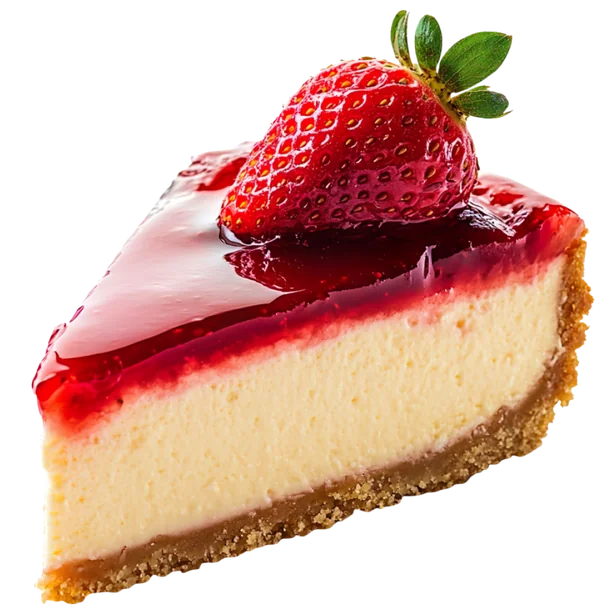
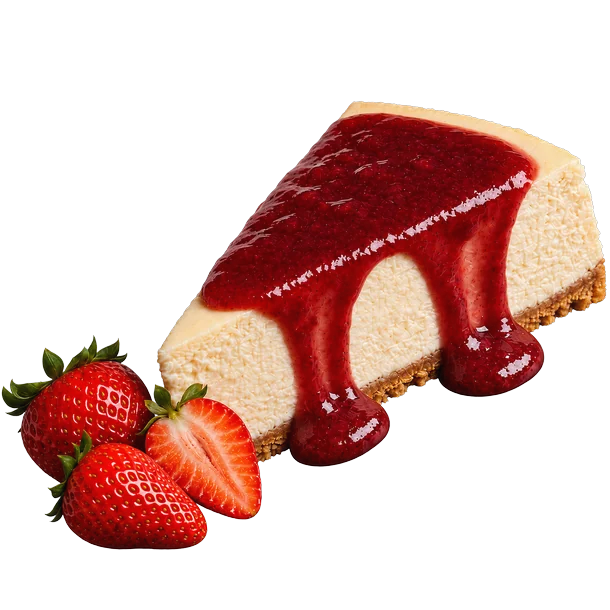
Textos revisados pelo cliente e novas fotos
- Cardápio: inteiros chegam congelados (≈2 h para descongelar), fatias refrigeradas
- Sobre: "fábrica própria, com fornadas todos os dias" (sem "por encomenda")
- Entrega/CTA/hero/meta: "área de cobertura em São Paulo" no lugar de "toda São Paulo"; sem taxa de R$15
- Restaurantes: porcionado, 7 dias de prazo a partir do 2º pedido
- Primeira fatia: sem a linha do R$15 (subtítulo opcional no tema)
- FAQ: prazos de geladeira/congelador e bairros confirmados (entram no JSON-LD)
- Fotos novas: fatia com morangos (primeira fatia), assado e calda (diferenciais)

diff --git a/index.html b/index.html
@@ -4,7 +4,7 @@
   <meta charset="utf-8">
   <meta name="viewport" content="width=device-width, initial-scale=1">
   <title>A Casa do Cheesecake — O autêntico New York Cheesecake em São Paulo</title>
-  <meta name="description" content="New York Cheesecake assado no estilo americano, com cream cheese Philadelphia, entregue gelado em toda São Paulo desde 2004.">
+  <meta name="description" content="New York Cheesecake assado no estilo americano, com cream cheese Philadelphia, com entrega em São Paulo desde 2004.">
   <script>document.documentElement.classList.add('js-motion','motion-pending');window.__cdcMotionSafety=setTimeout(function(){document.documentElement.classList.remove('js-motion','motion-pending')},4000);</script>
   <link rel="icon" href="assets/images/logo-photo.png">
   <link rel="preload" href="assets/fonts/anton-latin.woff2" as="font" type="font/woff2" crossorigin>
@@ -113,7 +113,7 @@
           <ul class="hero__info" role="list" data-figma-node="7057:126">
             <li class="hero__info-item" data-figma-node="7057:127">
               <span class="hero__info-badge" data-figma-node="7057:128"><span class="hero__info-icon" data-figma-node="7057:129"><img src="assets/images/01-hero-icon-delivery.svg" width="24" height="24" alt=""></span></span>
-              <span class="hero__info-text" data-figma-node="7057:136">ENTREGA EM TODA SÃO PAULO</span>
+              <span class="hero__info-text" data-figma-node="7057:136">ENTREGA EM SÃO PAULO</span>
             </li>
             <li class="hero__info-item" data-figma-node="7057:137">
               <span class="hero__info-badge" data-figma-node="7057:138"><span class="hero__info-icon" data-figma-node="7057:139"><img src="assets/images/01-hero-icon-slices.svg" width="24" height="18" alt=""></span></span>
@@ -145,12 +145,11 @@
           <div class="primeira-fatia__media">
             <div class="primeira-fatia__images" data-figma-node="7057:172">
               <img class="primeira-fatia__img primeira-fatia__img--foreground" data-figma-node="7057:173" src="assets/images/02-primeira-fatia-foreground-image.webp" width="206" height="191" decoding="async" alt="Fatia de cheesecake tradicional, sem cobertura">
-              <img class="primeira-fatia__img primeira-fatia__img--background" data-figma-node="7057:174" src="assets/images/02-primeira-fatia-background-image.webp" width="305" height="305" decoding="async" alt="Fatia de cheesecake com calda de frutas vermelhas e um morango por cima">
+              <img class="primeira-fatia__img primeira-fatia__img--background" data-figma-node="7057:174" src="assets/images/02-primeira-fatia-background-image.webp" width="305" height="305" decoding="async" alt="Fatia de cheesecake com calda de frutas vermelhas escorrendo pela lateral, ao lado de morangos">
             </div>
           </div>
 
           <div class="primeira-fatia__content" data-figma-node="7057:167">
-            <p class="primeira-fatia__subtitle" data-figma-node="7057:168">Você paga só os R$15 da entrega.</p>
             <p class="primeira-fatia__text" data-figma-node="7057:169">1 fatia por pessoa&nbsp;· de segunda a sexta, das 10h às 17h&nbsp;· enquanto durar o estoque do dia&nbsp;· dentro da área de entrega em São Paulo.</p>
             <a class="btn btn--primary" href="https://wa.me/5511956022366?text=Ol%C3%A1!+Quero+provar+minha+fatia+por+conta+da+casa." target="_blank" rel="noopener" data-figma-node="7073:338">Quero minha fatia</a>
           </div>
@@ -162,7 +161,7 @@
       <div class="container cardapio__inner">
         <header class="cardapio__head" data-figma-node="7057:176">
           <h2 class="cardapio__title" id="cardapio-titulo" data-figma-node="7057:177">Nossos cheesecakes</h2>
-          <p class="cardapio__lead" data-figma-node="7057:178">Todos assados na nossa cozinha em São Paulo e entregues gelados, prontos para servir. Escolha o tamanho pela quantidade de pessoas.</p>
+          <p class="cardapio__lead" data-figma-node="7057:178">Todos assados na nossa cozinha em São Paulo. Os cheesecakes inteiros chegam congelados, para não rachar no trajeto, e precisam de cerca de 2 horas em temperatura ambiente para descongelar. As fatias chegam refrigeradas, prontas para servir. Escolha o tamanho pela quantidade de pessoas.</p>
         </header>
 
         <div class="cardapio__body" data-figma-node="7057:179" data-cardapio-carousel>
@@ -446,7 +445,7 @@
               <p class="diferenciais__card-text" data-figma-node="7057:344">O ponto depende de uma combinação exata de tempo e temperatura. Erra em um dos dois e a torta racha, seca ou não firma.</p>
             </div>
             <figure class="diferenciais__media" data-figma-node="7057:1438">
-              <img class="diferenciais__img" src="assets/images/05-diferenciais-assado.webp" alt="Fatia de cheesecake assado coberta de framboesas e mirtilos" width="779" height="974" loading="lazy" decoding="async">
+              <img class="diferenciais__img" src="assets/images/05-diferenciais-assado.webp" alt="Fatia de cheesecake assado com calda de morango, ao lado da caixa da Casa do Cheesecake" width="780" height="1042" loading="lazy" decoding="async">
             </figure>
           </li>
 
@@ -456,7 +455,7 @@
               <p class="diferenciais__card-text" data-figma-node="7057:348">A cobertura é generosa por decisão, não por acidente. Fatia com calda escassa não é a sobremesa que a gente aprendeu a fazer.</p>
             </div>
             <figure class="diferenciais__media" data-figma-node="7057:1440">
-              <img class="diferenciais__img" src="assets/images/05-diferenciais-calda.webp" alt="Cheesecake inteiro com calda de frutas vermelhas cobrindo a superfície até a borda" width="600" height="673" loading="lazy" decoding="async">
+              <img class="diferenciais__img" src="assets/images/05-diferenciais-calda.webp" alt="Cheesecake inteiro com calda de frutas vermelhas cobrindo a superfície até a borda, com uma fatia cortada" width="780" height="1044" loading="lazy" decoding="async">
             </figure>
           </li>
         </ul>
@@ -476,8 +475,8 @@
       <div class="sobre__text" data-figma-node="7057:353">
         <h2 class="sobre__title" id="sobre-titulo" data-figma-node="7057:354">Uma cozinha, não uma embalagem</h2>
         <div class="sobre__body" data-figma-node="7057:355">
-          <p>Somos uma cozinha em São Paulo, com uma equipe que assa, resfria, cobre e embala cada torta que sai daqui — e que faz isso desde 2004, com a mesma receita e o mesmo padrão.</p>
-          <p>Cada cheesecake é assado por encomenda e sai da cozinha direto para a sua casa. Não trabalhamos com loja física nem com revenda em prateleira.</p>
+          <p>Somos uma fábrica própria em São Paulo, com fornadas todos os dias. Desde 2004, cada torta segue a mesma receita e o mesmo padrão.</p>
+          <p>Cada cheesecake sai direto da fábrica para a sua casa, sem loja física nem revenda em prateleira.</p>
         </div>
       </div>
 
@@ -642,7 +641,7 @@
 <section class="entrega" id="entrega" data-figma-node="7057:490" aria-labelledby="entrega-titulo">
   <div class="entrega__inner container">
     <div class="entrega__header" data-figma-node="7057:491">
-      <h2 class="entrega__title u-display" id="entrega-titulo" data-figma-node="7057:492">Entrega em toda a cidade de São Paulo</h2>
+      <h2 class="entrega__title u-display" id="entrega-titulo" data-figma-node="7057:492">Entrega em São Paulo</h2>
     </div>
     <div class="entrega__body" data-figma-node="7057:1348">
       <ul class="entrega__list" role="list" data-figma-node="7057:493">
@@ -653,8 +652,8 @@
             </span>
           </span>
           <div class="entrega__text" data-figma-node="7057:1315">
-            <h3 class="entrega__item-title" data-figma-node="7057:495">Toda São Paulo</h3>
-            <p class="entrega__item-text" data-figma-node="7057:496">Qualquer região dentro da nossa área de cobertura. Taxa a partir de R$15.</p>
+            <h3 class="entrega__item-title" data-figma-node="7057:495">Área de cobertura</h3>
+            <p class="entrega__item-text" data-figma-node="7057:496">Qualquer região dentro da nossa área de cobertura.</p>
           </div>
         </li>
         <li class="entrega__item" data-figma-node="7057:497">
@@ -675,8 +674,8 @@
             </span>
           </span>
           <div class="entrega__text" data-figma-node="7057:1317">
-            <h3 class="entrega__item-title" data-figma-node="7057:501">Chega gelado e pronto</h3>
-            <p class="entrega__item-text" data-figma-node="7057:502">Embalagem própria e temperatura de servir. Não precisa fazer nada além de cortar.</p>
+            <h3 class="entrega__item-title" data-figma-node="7057:501">Congelado ou refrigerado</h3>
+            <p class="entrega__item-text" data-figma-node="7057:502">Embalagem própria. O inteiro descongela em cerca de 2 horas; a fatia já chega pronta para servir.</p>
           </div>
         </li>
         <li class="entrega__item" data-figma-node="7057:503">
@@ -705,7 +704,7 @@
         <img class="restaurantes__selo" data-figma-node="7099:240" src="assets/images/09-restaurantes-selo.svg" width="53" height="63" alt="" loading="lazy">
       </div>
       <div class="restaurantes__content" data-figma-node="7057:511">
-        <p class="restaurantes__text" data-figma-node="7057:512">Cheesecakes inteiros prontos para porcionar, entrega semanal programada e <strong>pedido mínimo de R$500.</strong></p>
+        <p class="restaurantes__text" data-figma-node="7057:512">Cheesecakes inteiros já porcionados, entrega semanal programada, 7 dias de prazo para pagamento a partir do 2º pedido e <strong>pedido mínimo de R$500.</strong></p>
         <a class="btn btn--primary" data-figma-node="7079:401" href="https://acasadocheesecake.com.br/b2b/">Ver condições</a>
       </div>
     </div>
@@ -785,7 +784,7 @@
           </h3>
           <div class="faq__answer" id="faq-resposta-4" role="region" aria-labelledby="faq-pergunta-4">
             <div class="faq__answer-inner">
-              <p class="faq__answer-text">Na geladeira, bem fechado, o cheesecake dura [X dias]. Ele também pode ser congelado por até [X dias]: leve ao congelador inteiro ou em fatias, e transfira para a geladeira algumas horas antes de servir — nunca descongele em temperatura ambiente nem no micro-ondas, porque a textura se perde. [confirmar os dois prazos e a orientação de descongelamento]</p>
+              <p class="faq__answer-text">Na geladeira, bem fechado, o cheesecake dura até 7 dias. No congelador, inteiro ou em fatias, dura até 180 dias. Para descongelar, deixe cerca de 2 horas em temperatura ambiente antes de servir. Não use o micro-ondas, porque a textura se perde.</p>
             </div>
           </div>
         </div>
@@ -821,7 +820,7 @@
           </h3>
           <div class="faq__answer" id="faq-resposta-6" role="region" aria-labelledby="faq-pergunta-6">
             <div class="faq__answer-inner">
-              <p class="faq__answer-text">Atendemos toda a cidade de São Paulo, dentro da nossa área de cobertura, com taxa a partir de R$15. O cardápio confirma a disponibilidade pelo seu endereço antes de você fechar o pedido, então não tem risco de comprar e descobrir depois que não chega. Também estamos no iFood em Pinheiros, Vila Leopoldina, Bela Vista e Brooklin. [confirmar: se a taxa varia por região]</p>
+              <p class="faq__answer-text">Entregamos em São Paulo, dentro da nossa área de cobertura. O cardápio confirma a disponibilidade pelo seu endereço antes de você fechar o pedido, então não tem risco de comprar e descobrir depois que não chega. Também estamos no iFood em Pinheiros, Vila Leopoldina, Bela Vista e Brooklin.</p>
             </div>
           </div>
         </div>
@@ -872,7 +871,7 @@
        quando a página abre/recarrega nesta altura. Sem JS nada roda e tudo fica aberto. -->
   <script>(function (s) { if (s) s.classList.add('is-enhanced'); })(document.currentScript && document.currentScript.parentNode);</script>
   <!-- JSON-LD: respostas com marcador "[confirmar …]"/"[X dias]" do Figma ficam fora até a copy ser confirmada (igual ao template PHP). -->
-  <script type="application/ld+json">{"@context":"https://schema.org","@type":"FAQPage","mainEntity":[{"@type":"Question","name":"Vocês têm loja física?","acceptedAnswer":{"@type":"Answer","text":"Não. Trabalhamos exclusivamente com delivery em São Paulo, pelo nosso cardápio online e pelo iFood. Toda a produção sai da nossa cozinha direto para a entrega."}},{"@type":"Question","name":"Qual o tamanho certo para o meu número de convidados?","acceptedAnswer":{"@type":"Answer","text":"A fatia de 150 g serve uma pessoa. A torta de 600 g rende até 6 mini fatias, a de 1,2 kg serve até 8 pessoas e a de 1,8 kg, de 10 a 12. Se o cheesecake for a única sobremesa da mesa, vá para o tamanho de cima — porção de cheesecake some rápido. Se houver bolo e outros doces, o tamanho de baixo resolve."}},{"@type":"Question","name":"Quais as formas de pagamento?","acceptedAnswer":{"@type":"Answer","text":"Aceitamos Pix, cartão de crédito e cartão de débito, todos pelo cardápio online, com confirmação automática. O pagamento acontece na hora do pedido, então a entrega chega sem nenhuma etapa a mais."}},{"@type":"Question","name":"Como funciona a fatia por conta da casa?","acceptedAnswer":{"@type":"Answer","text":"É para quem ainda não conhece a marca: você preenche o formulário, escolhe o sabor e a data, e recebe uma fatia pagando só os R$15 da entrega. É 1 fatia por pessoa, de segunda a sexta das 10h às 17h, enquanto durar o estoque do dia, dentro da nossa área de entrega em São Paulo."}},{"@type":"Question","name":"O cheesecake de vocês é assado?","acceptedAnswer":{"@type":"Answer","text":"Sim. É a receita original americana, assada no forno — não é uma sobremesa fria montada com gelatina ou creme batido. É isso que dá a textura densa, o sabor lácteo e a fatia que se sustenta em pé no prato. A quantidade de cream cheese Philadelphia é a da receita original, sem redução."}}]}</script>
+  <script type="application/ld+json">{"@context":"https://schema.org","@type":"FAQPage","mainEntity":[{"@type":"Question","name":"Vocês têm loja física?","acceptedAnswer":{"@type":"Answer","text":"Não. Trabalhamos exclusivamente com delivery em São Paulo, pelo nosso cardápio online e pelo iFood. Toda a produção sai da nossa cozinha direto para a entrega."}},{"@type":"Question","name":"Qual o tamanho certo para o meu número de convidados?","acceptedAnswer":{"@type":"Answer","text":"A fatia de 150 g serve uma pessoa. A torta de 600 g rende até 6 mini fatias, a de 1,2 kg serve até 8 pessoas e a de 1,8 kg, de 10 a 12. Se o cheesecake for a única sobremesa da mesa, vá para o tamanho de cima — porção de cheesecake some rápido. Se houver bolo e outros doces, o tamanho de baixo resolve."}},{"@type":"Question","name":"Quanto tempo dura na geladeira? Pode congelar?","acceptedAnswer":{"@type":"Answer","text":"Na geladeira, bem fechado, o cheesecake dura até 7 dias. No congelador, inteiro ou em fatias, dura até 180 dias. Para descongelar, deixe cerca de 2 horas em temperatura ambiente antes de servir. Não use o micro-ondas, porque a textura se perde."}},{"@type":"Question","name":"Quais as formas de pagamento?","acceptedAnswer":{"@type":"Answer","text":"Aceitamos Pix, cartão de crédito e cartão de débito, todos pelo cardápio online, com confirmação automática. O pagamento acontece na hora do pedido, então a entrega chega sem nenhuma etapa a mais."}},{"@type":"Question","name":"A entrega chega em qualquer bairro de São Paulo?","acceptedAnswer":{"@type":"Answer","text":"Entregamos em São Paulo, dentro da nossa área de cobertura. O cardápio confirma a disponibilidade pelo seu endereço antes de você fechar o pedido, então não tem risco de comprar e descobrir depois que não chega. Também estamos no iFood em Pinheiros, Vila Leopoldina, Bela Vista e Brooklin."}},{"@type":"Question","name":"Como funciona a fatia por conta da casa?","acceptedAnswer":{"@type":"Answer","text":"É para quem ainda não conhece a marca: você preenche o formulário, escolhe o sabor e a data, e recebe uma fatia pagando só os R$15 da entrega. É 1 fatia por pessoa, de segunda a sexta das 10h às 17h, enquanto durar o estoque do dia, dentro da nossa área de entrega em São Paulo."}},{"@type":"Question","name":"O cheesecake de vocês é assado?","acceptedAnswer":{"@type":"Answer","text":"Sim. É a receita original americana, assada no forno — não é uma sobremesa fria montada com gelatina ou creme batido. É isso que dá a textura densa, o sabor lácteo e a fatia que se sustenta em pé no prato. A quantidade de cream cheese Philadelphia é a da receita original, sem redução."}}]}</script>
 </section>
 
 <section class="cta-final" id="pedir" data-figma-node="7057:955" aria-labelledby="cta-final-titulo">
@@ -882,7 +881,7 @@
         <img src="assets/images/11-cta-final-selo.svg" width="142" height="142" loading="lazy" decoding="async" alt="Yes, we have cheesecake. Desde 2004.">
       </div>
       <h2 class="cta-final__title" id="cta-final-titulo" data-figma-node="7057:993">Peça o seu <br>cheesecake hoje</h2>
-      <p class="cta-final__text" data-figma-node="7057:1009">Assado na nossa cozinha, entregue gelado em toda São Paulo.</p>
+      <p class="cta-final__text" data-figma-node="7057:1009">Assado na nossa cozinha, entregue congelado dentro da nossa área de cobertura em São Paulo.</p>
       <img class="cta-final__fatia" data-figma-node="7057:994" src="assets/images/11-cta-final-fatia.webp" width="198" height="184" loading="lazy" decoding="async" alt="Fatia de cheesecake tradicional, sem cobertura">
     </div>
 

diff --git a/src/sections/10-perguntas.html b/src/sections/10-perguntas.html
@@ -71,7 +71,7 @@
           </h3>
           <div class="faq__answer" id="faq-resposta-4" role="region" aria-labelledby="faq-pergunta-4">
             <div class="faq__answer-inner">
-              <p class="faq__answer-text">Na geladeira, bem fechado, o cheesecake dura [X dias]. Ele também pode ser congelado por até [X dias]: leve ao congelador inteiro ou em fatias, e transfira para a geladeira algumas horas antes de servir — nunca descongele em temperatura ambiente nem no micro-ondas, porque a textura se perde. [confirmar os dois prazos e a orientação de descongelamento]</p>
+              <p class="faq__answer-text">Na geladeira, bem fechado, o cheesecake dura até 7 dias. No congelador, inteiro ou em fatias, dura até 180 dias. Para descongelar, deixe cerca de 2 horas em temperatura ambiente antes de servir. Não use o micro-ondas, porque a textura se perde.</p>
             </div>
           </div>
         </div>
@@ -107,7 +107,7 @@
           </h3>
           <div class="faq__answer" id="faq-resposta-6" role="region" aria-labelledby="faq-pergunta-6">
             <div class="faq__answer-inner">
-              <p class="faq__answer-text">Atendemos toda a cidade de São Paulo, dentro da nossa área de cobertura, com taxa a partir de R$15. O cardápio confirma a disponibilidade pelo seu endereço antes de você fechar o pedido, então não tem risco de comprar e descobrir depois que não chega. Também estamos no iFood em Pinheiros, Vila Leopoldina, Bela Vista e Brooklin. [confirmar: se a taxa varia por região]</p>
+              <p class="faq__answer-text">Entregamos em São Paulo, dentro da nossa área de cobertura. O cardápio confirma a disponibilidade pelo seu endereço antes de você fechar o pedido, então não tem risco de comprar e descobrir depois que não chega. Também estamos no iFood em Pinheiros, Vila Leopoldina, Bela Vista e Brooklin.</p>
             </div>
           </div>
         </div>
@@ -158,5 +158,5 @@
        quando a página abre/recarrega nesta altura. Sem JS nada roda e tudo fica aberto. -->
   <script>(function (s) { if (s) s.classList.add('is-enhanced'); })(document.currentScript && document.currentScript.parentNode);</script>
   <!-- JSON-LD: respostas com marcador "[confirmar …]"/"[X dias]" do Figma ficam fora até a copy ser confirmada (igual ao template PHP). -->
-  <script type="application/ld+json">{"@context":"https://schema.org","@type":"FAQPage","mainEntity":[{"@type":"Question","name":"Vocês têm loja física?","acceptedAnswer":{"@type":"Answer","text":"Não. Trabalhamos exclusivamente com delivery em São Paulo, pelo nosso cardápio online e pelo iFood. Toda a produção sai da nossa cozinha direto para a entrega."}},{"@type":"Question","name":"Qual o tamanho certo para o meu número de convidados?","acceptedAnswer":{"@type":"Answer","text":"A fatia de 150 g serve uma pessoa. A torta de 600 g rende até 6 mini fatias, a de 1,2 kg serve até 8 pessoas e a de 1,8 kg, de 10 a 12. Se o cheesecake for a única sobremesa da mesa, vá para o tamanho de cima — porção de cheesecake some rápido. Se houver bolo e outros doces, o tamanho de baixo resolve."}},{"@type":"Question","name":"Quais as formas de pagamento?","acceptedAnswer":{"@type":"Answer","text":"Aceitamos Pix, cartão de crédito e cartão de débito, todos pelo cardápio online, com confirmação automática. O pagamento acontece na hora do pedido, então a entrega chega sem nenhuma etapa a mais."}},{"@type":"Question","name":"Como funciona a fatia por conta da casa?","acceptedAnswer":{"@type":"Answer","text":"É para quem ainda não conhece a marca: você preenche o formulário, escolhe o sabor e a data, e recebe uma fatia pagando só os R$15 da entrega. É 1 fatia por pessoa, de segunda a sexta das 10h às 17h, enquanto durar o estoque do dia, dentro da nossa área de entrega em São Paulo."}},{"@type":"Question","name":"O cheesecake de vocês é assado?","acceptedAnswer":{"@type":"Answer","text":"Sim. É a receita original americana, assada no forno — não é uma sobremesa fria montada com gelatina ou creme batido. É isso que dá a textura densa, o sabor lácteo e a fatia que se sustenta em pé no prato. A quantidade de cream cheese Philadelphia é a da receita original, sem redução."}}]}</script>
+  <script type="application/ld+json">{"@context":"https://schema.org","@type":"FAQPage","mainEntity":[{"@type":"Question","name":"Vocês têm loja física?","acceptedAnswer":{"@type":"Answer","text":"Não. Trabalhamos exclusivamente com delivery em São Paulo, pelo nosso cardápio online e pelo iFood. Toda a produção sai da nossa cozinha direto para a entrega."}},{"@type":"Question","name":"Qual o tamanho certo para o meu número de convidados?","acceptedAnswer":{"@type":"Answer","text":"A fatia de 150 g serve uma pessoa. A torta de 600 g rende até 6 mini fatias, a de 1,2 kg serve até 8 pessoas e a de 1,8 kg, de 10 a 12. Se o cheesecake for a única sobremesa da mesa, vá para o tamanho de cima — porção de cheesecake some rápido. Se houver bolo e outros doces, o tamanho de baixo resolve."}},{"@type":"Question","name":"Quanto tempo dura na geladeira? Pode congelar?","acceptedAnswer":{"@type":"Answer","text":"Na geladeira, bem fechado, o cheesecake dura até 7 dias. No congelador, inteiro ou em fatias, dura até 180 dias. Para descongelar, deixe cerca de 2 horas em temperatura ambiente antes de servir. Não use o micro-ondas, porque a textura se perde."}},{"@type":"Question","name":"Quais as formas de pagamento?","acceptedAnswer":{"@type":"Answer","text":"Aceitamos Pix, cartão de crédito e cartão de débito, todos pelo cardápio online, com confirmação automática. O pagamento acontece na hora do pedido, então a entrega chega sem nenhuma etapa a mais."}},{"@type":"Question","name":"A entrega chega em qualquer bairro de São Paulo?","acceptedAnswer":{"@type":"Answer","text":"Entregamos em São Paulo, dentro da nossa área de cobertura. O cardápio confirma a disponibilidade pelo seu endereço antes de você fechar o pedido, então não tem risco de comprar e descobrir depois que não chega. Também estamos no iFood em Pinheiros, Vila Leopoldina, Bela Vista e Brooklin."}},{"@type":"Question","name":"Como funciona a fatia por conta da casa?","acceptedAnswer":{"@type":"Answer","text":"É para quem ainda não conhece a marca: você preenche o formulário, escolhe o sabor e a data, e recebe uma fatia pagando só os R$15 da entrega. É 1 fatia por pessoa, de segunda a sexta das 10h às 17h, enquanto durar o estoque do dia, dentro da nossa área de entrega em São Paulo."}},{"@type":"Question","name":"O cheesecake de vocês é assado?","acceptedAnswer":{"@type":"Answer","text":"Sim. É a receita original americana, assada no forno — não é uma sobremesa fria montada com gelatina ou creme batido. É isso que dá a textura densa, o sabor lácteo e a fatia que se sustenta em pé no prato. A quantidade de cream cheese Philadelphia é a da receita original, sem redução."}}]}</script>
 </section>

diff --git a/src/sections/08-entrega.html b/src/sections/08-entrega.html
@@ -1,7 +1,7 @@
 <section class="entrega" id="entrega" data-figma-node="7057:490" aria-labelledby="entrega-titulo">
   <div class="entrega__inner container">
     <div class="entrega__header" data-figma-node="7057:491">
-      <h2 class="entrega__title u-display" id="entrega-titulo" data-figma-node="7057:492">Entrega em toda a cidade de São Paulo</h2>
+      <h2 class="entrega__title u-display" id="entrega-titulo" data-figma-node="7057:492">Entrega em São Paulo</h2>
     </div>
     <div class="entrega__body" data-figma-node="7057:1348">
       <ul class="entrega__list" role="list" data-figma-node="7057:493">
@@ -12,8 +12,8 @@
             </span>
           </span>
           <div class="entrega__text" data-figma-node="7057:1315">
-            <h3 class="entrega__item-title" data-figma-node="7057:495">Toda São Paulo</h3>
-            <p class="entrega__item-text" data-figma-node="7057:496">Qualquer região dentro da nossa área de cobertura. Taxa a partir de R$15.</p>
+            <h3 class="entrega__item-title" data-figma-node="7057:495">Área de cobertura</h3>
+            <p class="entrega__item-text" data-figma-node="7057:496">Qualquer região dentro da nossa área de cobertura.</p>
           </div>
         </li>
         <li class="entrega__item" data-figma-node="7057:497">
@@ -34,8 +34,8 @@
             </span>
           </span>
           <div class="entrega__text" data-figma-node="7057:1317">
-            <h3 class="entrega__item-title" data-figma-node="7057:501">Chega gelado e pronto</h3>
-            <p class="entrega__item-text" data-figma-node="7057:502">Embalagem própria e temperatura de servir. Não precisa fazer nada além de cortar.</p>
+            <h3 class="entrega__item-title" data-figma-node="7057:501">Congelado ou refrigerado</h3>
+            <p class="entrega__item-text" data-figma-node="7057:502">Embalagem própria. O inteiro descongela em cerca de 2 horas; a fatia já chega pronta para servir.</p>
           </div>
         </li>
         <li class="entrega__item" data-figma-node="7057:503">

diff --git a/src/sections/05-diferenciais.html b/src/sections/05-diferenciais.html
@@ -26,7 +26,7 @@
               <p class="diferenciais__card-text" data-figma-node="7057:344">O ponto depende de uma combinação exata de tempo e temperatura. Erra em um dos dois e a torta racha, seca ou não firma.</p>
             </div>
             <figure class="diferenciais__media" data-figma-node="7057:1438">
-              <img class="diferenciais__img" src="assets/images/05-diferenciais-assado.webp" alt="Fatia de cheesecake assado coberta de framboesas e mirtilos" width="779" height="974" loading="lazy" decoding="async">
+              <img class="diferenciais__img" src="assets/images/05-diferenciais-assado.webp" alt="Fatia de cheesecake assado com calda de morango, ao lado da caixa da Casa do Cheesecake" width="780" height="1042" loading="lazy" decoding="async">
             </figure>
           </li>
 
@@ -36,7 +36,7 @@
               <p class="diferenciais__card-text" data-figma-node="7057:348">A cobertura é generosa por decisão, não por acidente. Fatia com calda escassa não é a sobremesa que a gente aprendeu a fazer.</p>
             </div>
             <figure class="diferenciais__media" data-figma-node="7057:1440">
-              <img class="diferenciais__img" src="assets/images/05-diferenciais-calda.webp" alt="Cheesecake inteiro com calda de frutas vermelhas cobrindo a superfície até a borda" width="600" height="673" loading="lazy" decoding="async">
+              <img class="diferenciais__img" src="assets/images/05-diferenciais-calda.webp" alt="Cheesecake inteiro com calda de frutas vermelhas cobrindo a superfície até a borda, com uma fatia cortada" width="780" height="1044" loading="lazy" decoding="async">
             </figure>
           </li>
         </ul>

diff --git a/src/sections/02-primeira-fatia.html b/src/sections/02-primeira-fatia.html
@@ -7,12 +7,11 @@
           <div class="primeira-fatia__media">
             <div class="primeira-fatia__images" data-figma-node="7057:172">
               <img class="primeira-fatia__img primeira-fatia__img--foreground" data-figma-node="7057:173" src="assets/images/02-primeira-fatia-foreground-image.webp" width="206" height="191" decoding="async" alt="Fatia de cheesecake tradicional, sem cobertura">
-              <img class="primeira-fatia__img primeira-fatia__img--background" data-figma-node="7057:174" src="assets/images/02-primeira-fatia-background-image.webp" width="305" height="305" decoding="async" alt="Fatia de cheesecake com calda de frutas vermelhas e um morango por cima">
+              <img class="primeira-fatia__img primeira-fatia__img--background" data-figma-node="7057:174" src="assets/images/02-primeira-fatia-background-image.webp" width="305" height="305" decoding="async" alt="Fatia de cheesecake com calda de frutas vermelhas escorrendo pela lateral, ao lado de morangos">
             </div>
           </div>
 
           <div class="primeira-fatia__content" data-figma-node="7057:167">
-            <p class="primeira-fatia__subtitle" data-figma-node="7057:168">Você paga só os R$15 da entrega.</p>
             <p class="primeira-fatia__text" data-figma-node="7057:169">1 fatia por pessoa&nbsp;· de segunda a sexta, das 10h às 17h&nbsp;· enquanto durar o estoque do dia&nbsp;· dentro da área de entrega em São Paulo.</p>
             <a class="btn btn--primary" href="https://wa.me/5511956022366?text=Ol%C3%A1!+Quero+provar+minha+fatia+por+conta+da+casa." target="_blank" rel="noopener" data-figma-node="7073:338">Quero minha fatia</a>
           </div>

diff --git a/src/sections/06-sobre.html b/src/sections/06-sobre.html
@@ -11,8 +11,8 @@
       <div class="sobre__text" data-figma-node="7057:353">
         <h2 class="sobre__title" id="sobre-titulo" data-figma-node="7057:354">Uma cozinha, não uma embalagem</h2>
         <div class="sobre__body" data-figma-node="7057:355">
-          <p>Somos uma cozinha em São Paulo, com uma equipe que assa, resfria, cobre e embala cada torta que sai daqui — e que faz isso desde 2004, com a mesma receita e o mesmo padrão.</p>
-          <p>Cada cheesecake é assado por encomenda e sai da cozinha direto para a sua casa. Não trabalhamos com loja física nem com revenda em prateleira.</p>
+          <p>Somos uma fábrica própria em São Paulo, com fornadas todos os dias. Desde 2004, cada torta segue a mesma receita e o mesmo padrão.</p>
+          <p>Cada cheesecake sai direto da fábrica para a sua casa, sem loja física nem revenda em prateleira.</p>
         </div>
       </div>
 

diff --git a/src/sections/03-cardapio.html b/src/sections/03-cardapio.html
@@ -2,7 +2,7 @@
       <div class="container cardapio__inner">
         <header class="cardapio__head" data-figma-node="7057:176">
           <h2 class="cardapio__title" id="cardapio-titulo" data-figma-node="7057:177">Nossos cheesecakes</h2>
-          <p class="cardapio__lead" data-figma-node="7057:178">Todos assados na nossa cozinha em São Paulo e entregues gelados, prontos para servir. Escolha o tamanho pela quantidade de pessoas.</p>
+          <p class="cardapio__lead" data-figma-node="7057:178">Todos assados na nossa cozinha em São Paulo. Os cheesecakes inteiros chegam congelados, para não rachar no trajeto, e precisam de cerca de 2 horas em temperatura ambiente para descongelar. As fatias chegam refrigeradas, prontas para servir. Escolha o tamanho pela quantidade de pessoas.</p>
         </header>
 
         <div class="cardapio__body" data-figma-node="7057:179" data-cardapio-carousel>

diff --git a/src/sections/01-hero.html b/src/sections/01-hero.html
@@ -24,7 +24,7 @@
           <ul class="hero__info" role="list" data-figma-node="7057:126">
             <li class="hero__info-item" data-figma-node="7057:127">
               <span class="hero__info-badge" data-figma-node="7057:128"><span class="hero__info-icon" data-figma-node="7057:129"><img src="assets/images/01-hero-icon-delivery.svg" width="24" height="24" alt=""></span></span>
-              <span class="hero__info-text" data-figma-node="7057:136">ENTREGA EM TODA SÃO PAULO</span>
+              <span class="hero__info-text" data-figma-node="7057:136">ENTREGA EM SÃO PAULO</span>
             </li>
             <li class="hero__info-item" data-figma-node="7057:137">
               <span class="hero__info-badge" data-figma-node="7057:138"><span class="hero__info-icon" data-figma-node="7057:139"><img src="assets/images/01-hero-icon-slices.svg" width="24" height="18" alt=""></span></span>

diff --git a/src/layout.html b/src/layout.html
@@ -4,7 +4,7 @@
   <meta charset="utf-8">
   <meta name="viewport" content="width=device-width, initial-scale=1">
   <title>A Casa do Cheesecake — O autêntico New York Cheesecake em São Paulo</title>
-  <meta name="description" content="New York Cheesecake assado no estilo americano, com cream cheese Philadelphia, entregue gelado em toda São Paulo desde 2004.">
+  <meta name="description" content="New York Cheesecake assado no estilo americano, com cream cheese Philadelphia, com entrega em São Paulo desde 2004.">
   <script>document.documentElement.classList.add('js-motion','motion-pending');window.__cdcMotionSafety=setTimeout(function(){document.documentElement.classList.remove('js-motion','motion-pending')},4000);</script>
   <link rel="icon" href="assets/images/logo-photo.png">
   <link rel="preload" href="assets/fonts/anton-latin.woff2" as="font" type="font/woff2" crossorigin>

diff --git a/src/sections/09-restaurantes.html b/src/sections/09-restaurantes.html
@@ -7,7 +7,7 @@
         <img class="restaurantes__selo" data-figma-node="7099:240" src="assets/images/09-restaurantes-selo.svg" width="53" height="63" alt="" loading="lazy">
       </div>
       <div class="restaurantes__content" data-figma-node="7057:511">
-        <p class="restaurantes__text" data-figma-node="7057:512">Cheesecakes inteiros prontos para porcionar, entrega semanal programada e <strong>pedido mínimo de R$500.</strong></p>
+        <p class="restaurantes__text" data-figma-node="7057:512">Cheesecakes inteiros já porcionados, entrega semanal programada, 7 dias de prazo para pagamento a partir do 2º pedido e <strong>pedido mínimo de R$500.</strong></p>
         <a class="btn btn--primary" data-figma-node="7079:401" href="https://acasadocheesecake.com.br/b2b/">Ver condições</a>
       </div>
     </div>

diff --git a/src/sections/11-cta-final.html b/src/sections/11-cta-final.html
@@ -5,7 +5,7 @@
         <img src="assets/images/11-cta-final-selo.svg" width="142" height="142" loading="lazy" decoding="async" alt="Yes, we have cheesecake. Desde 2004.">
       </div>
       <h2 class="cta-final__title" id="cta-final-titulo" data-figma-node="7057:993">Peça o seu <br>cheesecake hoje</h2>
-      <p class="cta-final__text" data-figma-node="7057:1009">Assado na nossa cozinha, entregue gelado em toda São Paulo.</p>
+      <p class="cta-final__text" data-figma-node="7057:1009">Assado na nossa cozinha, entregue congelado dentro da nossa área de cobertura em São Paulo.</p>
       <img class="cta-final__fatia" data-figma-node="7057:994" src="assets/images/11-cta-final-fatia.webp" width="198" height="184" loading="lazy" decoding="async" alt="Fatia de cheesecake tradicional, sem cobertura">
     </div>
 

diff --git a/theme/casadocheesecake/inc/sections/10-perguntas.php b/theme/casadocheesecake/inc/sections/10-perguntas.php
@@ -35,7 +35,7 @@ function cdc_faq_defaults() {
 		),
 		array(
 			'title'    => 'Quanto tempo dura na geladeira? Pode congelar?',
-			'resposta' => 'Na geladeira, bem fechado, o cheesecake dura [X dias]. Ele também pode ser congelado por até [X dias]: leve ao congelador inteiro ou em fatias, e transfira para a geladeira algumas horas antes de servir — nunca descongele em temperatura ambiente nem no micro-ondas, porque a textura se perde. [confirmar os dois prazos e a orientação de descongelamento]',
+			'resposta' => 'Na geladeira, bem fechado, o cheesecake dura até 7 dias. No congelador, inteiro ou em fatias, dura até 180 dias. Para descongelar, deixe cerca de 2 horas em temperatura ambiente antes de servir. Não use o micro-ondas, porque a textura se perde.',
 		),
 		array(
 			'title'    => 'Quais as formas de pagamento?',
@@ -43,7 +43,7 @@ function cdc_faq_defaults() {
 		),
 		array(
 			'title'    => 'A entrega chega em qualquer bairro de São Paulo?',
-			'resposta' => 'Atendemos toda a cidade de São Paulo, dentro da nossa área de cobertura, com taxa a partir de R$15. O cardápio confirma a disponibilidade pelo seu endereço antes de você fechar o pedido, então não tem risco de comprar e descobrir depois que não chega. Também estamos no iFood em Pinheiros, Vila Leopoldina, Bela Vista e Brooklin. [confirmar: se a taxa varia por região]',
+			'resposta' => 'Entregamos em São Paulo, dentro da nossa área de cobertura. O cardápio confirma a disponibilidade pelo seu endereço antes de você fechar o pedido, então não tem risco de comprar e descobrir depois que não chega. Também estamos no iFood em Pinheiros, Vila Leopoldina, Bela Vista e Brooklin.',
 		),
 		array(
 			'title'    => 'Como funciona a fatia por conta da casa?',
